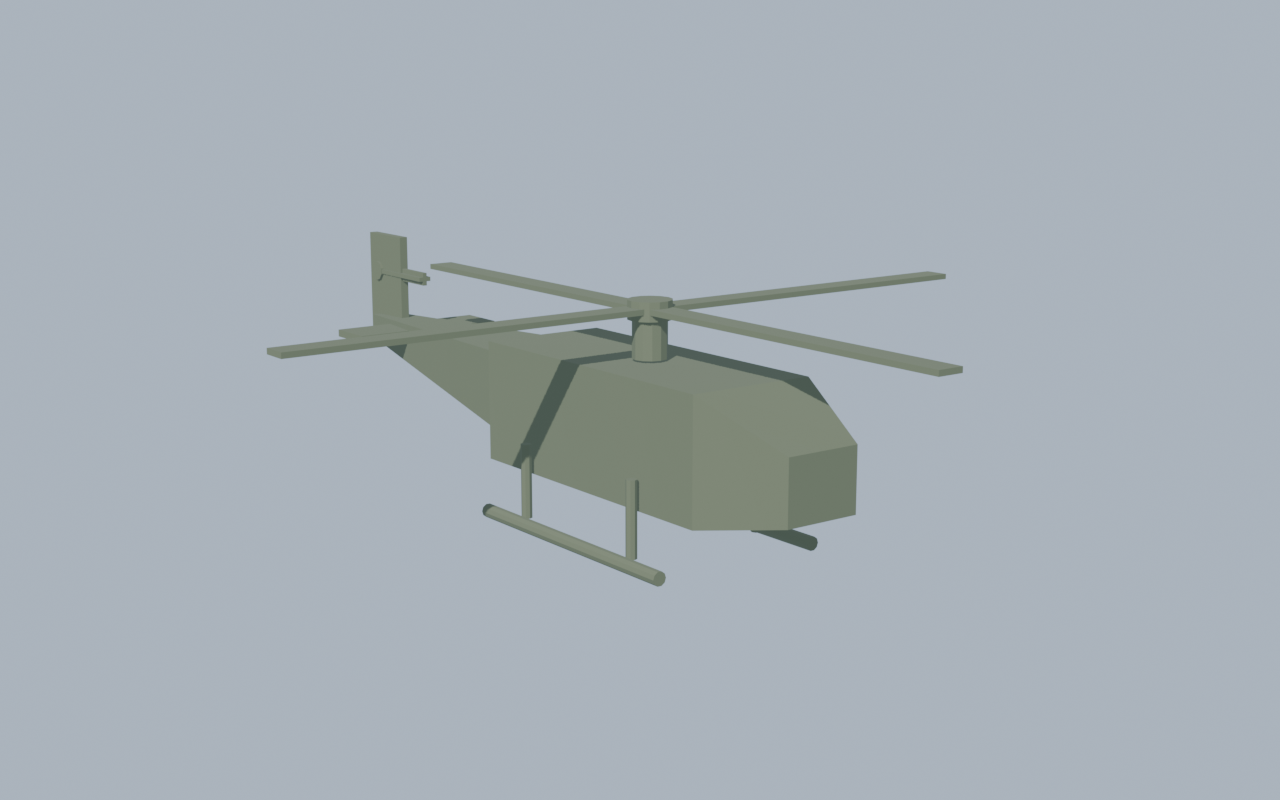
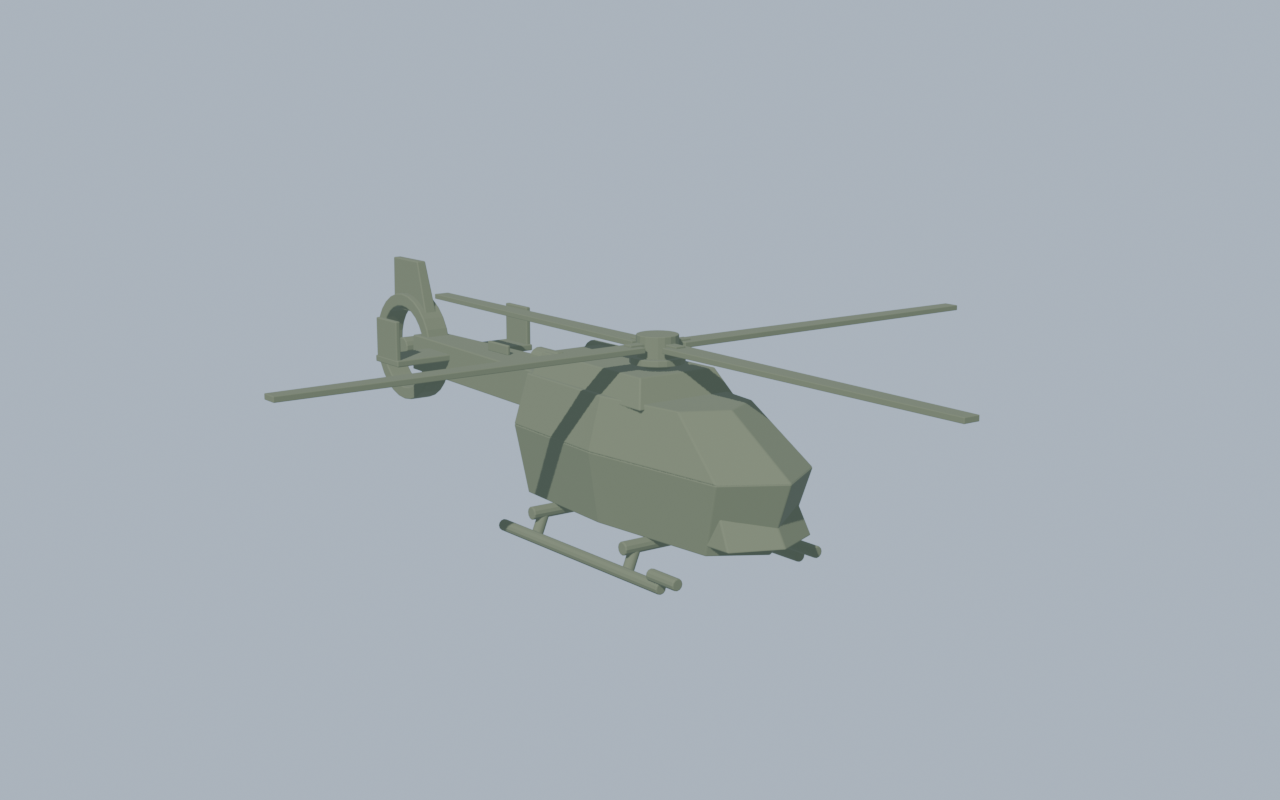
Hubschrauber: Zelle statt Kasten
Der erste Wurf war ein Quader mit Ausleger und vier Brettern. Jetzt nach
dem Vorbild, das auf jedem Klinikumsdach steht: runde Kabine aus drei
Umrissen uebereinander (unten schmal, in Fensterhoehe am breitesten, zum
Dach eingezogen), weit heruntergezogene Kanzel, Triebwerksdeck mit zwei
Auspuffstutzen, schlanker Heckausleger und der ummantelte Heckrotor im
Ringkanal - dafuer gibt es jetzt eine echte Kreisscheibe mit Loch statt
eines Kastens. Dazu Seitenleitwerk, Hoehenflosse mit Endscheiben, Kufen
auf zwei Querbuegeln, Landescheinwerfer, Antenne, Taumelscheibe und vier
verjuengte Blaetter. Kanten gefast wie beim Panzer.

Nabe und Ringkanal sitzen im Spiel dort, wo das Modell sie hat; der
Heckrotor dreht jetzt um die Querachse (vorher um die falsche) und rund
viermal so schnell wie der Hauptrotor.

-LaLaBergSonderTest: PASS panzer_weg=38m heli_stieg=25m.

Changed region(s): [[0.1875, 0.2812, 0.7812, 0.75]]

diff --git a/Tools/baue_panzer_heli.py b/Tools/baue_panzer_heli.py
@@ -340,44 +340,129 @@ def panzer():
 
 
 # ------------------------------------------------------------ Hubschrauber
-# Leichter Hubschrauber: 9,5 m ueber alles, Rotor 9,8 m.
+# Vorbild ist der Rettungshubschrauber, wie er auf jedem Klinikumsdach steht
+# (Zelle rund 10 m lang, Rotor 10 m, Hoehe 3,5 m): runde Kabine mit weit
+# heruntergezogener Kanzel, Triebwerksdeck darueber, schlanker Heckausleger
+# und der ummantelte Heckrotor im Ringkanal - die Bauform, an der man einen
+# solchen Hubschrauber auf hundert Meter erkennt.
+#
+# Der erste Versuch war ein Kasten mit Ausleger und vier Brettern; hier
+# entstehen Kabine und Ausleger aus Umrissen mit geneigten Waenden, der
+# Ringkanal aus einer echten Kreisscheibe mit Loch.
+def scheibe_mit_loch(name, r_aussen, r_innen, dicke, ort=(0, 0, 0), segmente=28):
+    """Kreisring als Koerper - fuer den Ringkanal des Heckrotors. Achse Y."""
+    ob, me = neu(name)
+    punkte, flaechen = [], []
+    for seite, y in ((0, -dicke / 2), (1, dicke / 2)):
+        for i in range(segmente):
+            w = i / segmente * 2 * math.pi
+            punkte.append((math.cos(w) * r_aussen, y, math.sin(w) * r_aussen))
+            punkte.append((math.cos(w) * r_innen, y, math.sin(w) * r_innen))
+    for i in range(segmente):
+        j = (i + 1) % segmente
+        a0, a1 = 2 * i, 2 * i + 1
+        b0, b1 = 2 * j, 2 * j + 1
+        c0, c1 = a0 + 2 * segmente, a1 + 2 * segmente
+        d0, d1 = b0 + 2 * segmente, b1 + 2 * segmente
+        flaechen.append((a0, b0, b1, a1))          # vorn
+        flaechen.append((c1, d1, d0, c0))          # hinten
+        flaechen.append((a0, c0, d0, b0))          # aussen
+        flaechen.append((b1, d1, c1, a1))          # innen
+    me.from_pydata([(p[0] + ort[0], p[1] + ort[1], p[2] + ort[2]) for p in punkte], [], flaechen)
+    me.validate()
+    me.update()
+    return ob
+
+
 def helikopter():
     leere_szene()
-    teile = [kasten("Rumpf", 4.2, 1.7, 1.55, (0, 0, 1.75))]
-    teile.append(keil("Nase", [
-        (2.1, -0.85, -0.775), (3.3, -0.5, -0.55), (3.3, -0.5, 0.25), (2.1, -0.85, 0.775),
-        (2.1, 0.85, -0.775), (3.3, 0.5, -0.55), (3.3, 0.5, 0.25), (2.1, 0.85, 0.775),
-    ], (0, 0, 1.75)))
-    teile.append(keil("Heck", [
-        (-2.1, -0.7, -0.45), (-6.4, -0.18, 0.15), (-6.4, -0.18, 0.5), (-2.1, -0.7, 0.6),
-        (-2.1, 0.7, -0.45), (-6.4, 0.18, 0.15), (-6.4, 0.18, 0.5), (-2.1, 0.7, 0.6),
-    ], (0, 0, 1.75)))
-    teile.append(kasten("Heckflosse", 0.9, 0.12, 1.5, (-6.2, 0, 2.7)))
-    teile.append(kasten("Hoehenflosse", 0.7, 2.2, 0.1, (-5.4, 0, 2.15)))
-    teile.append(zylinder("Mast", 0.22, 0.6, (0.2, 0, 2.85), achse="Z", segmente=12))
+
+    # ------------------------------------------------------------- Zelle
+    # Kabine: unten schmal, in Fensterhoehe am breitesten, zum Dach wieder
+    # eingezogen - deshalb drei Umrisse uebereinander.
+    KABINE_UNTEN = [(2.05, -0.62), (2.45, 0.0), (2.05, 0.62), (0.2, 0.78),
+                    (-1.5, 0.66), (-1.9, 0.0), (-1.5, -0.66), (0.2, -0.78)]
+    KABINE_MITTE = [(2.35, -0.72), (2.80, 0.0), (2.35, 0.72), (0.2, 0.92),
+                    (-1.6, 0.80), (-2.05, 0.0), (-1.6, -0.80), (0.2, -0.92)]
+    KABINE_OBEN = [(1.45, -0.55), (1.75, 0.0), (1.45, 0.55), (0.2, 0.74),
+                   (-1.5, 0.66), (-1.85, 0.0), (-1.5, -0.66), (0.2, -0.74)]
+    zelle = [profil("KabineUnten", KABINE_UNTEN, 0.62, KABINE_MITTE, 1.52),
+             profil("KabineOben", KABINE_MITTE, 1.52, KABINE_OBEN, 2.18)]
+    # Kanzel: die weit heruntergezogene Frontscheibe als eigene, flache
+    # Platte ueber der Kabinenspitze.
+    zelle.append(profil("Kanzel",
+                        [(2.45, -0.62), (2.72, 0.0), (2.45, 0.62), (1.6, 0.66),
+                         (1.3, 0.0), (1.6, -0.66)], 0.75,
+                        [(1.9, -0.52), (2.10, 0.0), (1.9, 0.52), (1.35, 0.56),
+                         (1.15, 0.0), (1.35, -0.56)], 1.75))
+    # Triebwerksdeck mit zwei Auspuffstutzen, dahinter der Rotormast.
+    zelle.append(profil("Triebwerksdeck",
+                        [(0.95, -0.72), (0.95, 0.72), (-1.45, 0.66), (-1.45, -0.66)], 2.12,
+                        [(0.75, -0.56), (0.75, 0.56), (-1.35, 0.52), (-1.35, -0.52)], 2.46))
     for seite in (-1, 1):
-        teile.append(zylinder("Kufe", 0.09, 3.6, (0.1, seite * 1.15, 0.42), achse="X", segmente=10))
-        for x in (1.1, -1.1):
-            teile.append(zylinder("Strebe", 0.07, 0.95, (x, seite * 0.95, 0.9), achse="Z", segmente=8))
-    rumpf_ganz = vereine("SM_Heli_Rumpf", teile)
+        zelle.append(zylinder("Auspuff", 0.14, 0.5, (-1.35, seite * 0.42, 2.34), achse="X", segmente=14))
+    zelle.append(zylinder("Mast", 0.17, 0.5, (0.35, 0, 2.42), achse="Z", segmente=16))
 
-    # Hauptrotor: Nabe und vier Blaetter, Drehpunkt im Ursprung.
-    blaetter = [zylinder("Nabe", 0.28, 0.24, (0, 0, 0), achse="Z", segmente=14)]
+    # Heckausleger: langer, sich verjuengender Koerper bis zum Ringkanal.
+    zelle.append(profil("Heckausleger",
+                        [(-1.45, -0.42), (-1.45, 0.42), (-5.15, 0.24), (-5.15, -0.24)], 1.62,
+                        [(-1.45, -0.40), (-1.45, 0.40), (-5.15, 0.22), (-5.15, -0.22)], 2.12))
+    # Ringkanal (Fenestron) mit Blaettern darin - das auffaelligste Merkmal.
+    zelle.append(scheibe_mit_loch("Ringkanal", 0.78, 0.60, 0.34, (-5.55, 0.0, 1.88)))
+    zelle.append(zylinder("Kanalnabe", 0.14, 0.36, (-5.55, 0, 1.88), achse="Y", segmente=14))
+    # Seitenleitwerk ueber dem Kanal, Hoehenflosse mit Endscheiben davor.
+    zelle.append(profil("Seitenflosse",
+                        [(-5.0, -0.09), (-5.0, 0.09), (-5.95, 0.07), (-5.95, -0.07)], 2.40,
+                        [(-5.25, -0.07), (-5.25, 0.07), (-5.95, 0.06), (-5.95, -0.06)], 3.15))
+    zelle.append(kasten("Hoehenflosse", 0.62, 2.20, 0.09, (-4.35, 0, 1.95)))
+    for seite in (-1, 1):
+        zelle.append(kasten("Endscheibe", 0.55, 0.07, 0.62, (-4.35, seite * 1.06, 2.22)))
+    # Kufen: zwei Laengsrohre auf zwei Querbuegeln.
+    for seite in (-1, 1):
+        zelle.append(zylinder("Kufe", 0.075, 3.30, (0.15, seite * 1.05, 0.26), achse="X", segmente=12))
+        zelle.append(zylinder("Kufenspitze", 0.075, 0.5, (1.85, seite * 1.05, 0.38), achse="X", segmente=12))
+    for x in (1.05, -0.85):
+        zelle.append(zylinder("Querbuegel", 0.085, 2.10, (x, 0, 0.55), achse="Y", segmente=12))
+        for seite in (-1, 1):
+            strebe = zylinder("Strebe", 0.075, 0.42, (0, 0, 0), achse="Z", segmente=10)
+            strebe.rotation_euler = (math.radians(seite * 22), 0, 0)
+            strebe.location = (x, seite * 0.92, 0.38)
+            zelle.append(strebe)
+    # Landescheinwerfer unter der Nase, Antenne auf dem Ausleger.
+    zelle.append(zylinder("Landelicht", 0.13, 0.12, (2.25, 0, 0.72), achse="Z", segmente=14))
+    zelle.append(kasten("Antenne", 0.5, 0.05, 0.14, (-3.2, 0, 2.18)))
+    rumpf_ganz = vereine("SM_Heli_Rumpf", zelle)
+    kanten_brechen(rumpf_ganz, 0.015)
+
+    # ------------------------------------------------------------- Rotor
+    # Nabe mit Taumelscheibe und vier leicht verjuengten Blaettern.
+    rotor = [zylinder("Nabe", 0.26, 0.30, (0, 0, 0), achse="Z", segmente=20),
+             zylinder("Taumelscheibe", 0.34, 0.08, (0, 0, -0.16), achse="Z", segmente=20)]
     for i in range(4):
-        blatt = kasten("Blatt", 4.9, 0.34, 0.07, (2.45, 0, 0))
+        blatt = profil("Blatt",
+                       [(0.30, -0.16), (5.05, -0.11), (5.05, 0.11), (0.30, 0.16)], -0.035,
+                       [(0.30, -0.16), (5.05, -0.11), (5.05, 0.11), (0.30, 0.16)], 0.035)
+        # Das Netz liegt schon aussen am Blattansatz, gedreht wird um den
+        # Ursprung - so wandert der Halter mit dem Blatt mit. Ein .location
+        # wuerde nicht mitgedreht und liesse alle vier an derselben Stelle.
+        halter = kasten("Blatthalter", 0.34, 0.14, 0.12, (0.28, 0, 0))
         blatt.rotation_euler = (0, 0, math.radians(90 * i))
-        blaetter.append(blatt)
-    rotor = vereine("SM_Heli_Rotor", blaetter)
+        halter.rotation_euler = (0, 0, math.radians(90 * i))
+        rotor.append(blatt)
+        rotor.append(halter)
+    rotor_ganz = vereine("SM_Heli_Rotor", rotor)
+    kanten_brechen(rotor_ganz, 0.008)
 
-    heckteile = [zylinder("Hecknabe", 0.14, 0.2, (0, 0, 0), achse="Y", segmente=10)]
-    for i in range(2):
-        blatt = kasten("Heckblatt", 1.25, 0.06, 0.18, (0.62, 0, 0))
-        blatt.rotation_euler = (math.radians(90 * i), 0, 0)
-        heckteile.append(blatt)
-    heckrotor = vereine("SM_Heli_Heckrotor", heckteile)
+    # Heckrotor im Kanal: acht kurze Blaetter, Achse quer.
+    heck = [zylinder("Hecknabe", 0.12, 0.26, (0, 0, 0), achse="Y", segmente=14)]
+    for i in range(8):
+        blatt = kasten("Heckblatt", 0.50, 0.05, 0.11, (0.30, 0, 0))
+        blatt.rotation_euler = (math.radians(45 * i), 0, 0)
+        heck.append(blatt)
+    heckrotor = vereine("SM_Heli_Heckrotor", heck)
 
     exportiere("SM_Heli_Rumpf", rumpf_ganz)
-    exportiere("SM_Heli_Rotor", rotor)
+    exportiere("SM_Heli_Rotor", rotor_ganz)
     exportiere("SM_Heli_Heckrotor", heckrotor)
 
 

diff --git a/Source/LaLaBerg/LaLaBergSonderfahrzeug.cpp b/Source/LaLaBerg/LaLaBergSonderfahrzeug.cpp
@@ -81,10 +81,14 @@ void ALaLaBergSonderfahrzeug::BeginPlay() {
  Koerper->SetStaticMesh(Lade(bPanzer ? TEXT("SM_Panzer_Wanne") : TEXT("SM_Heli_Rumpf")));
  Koerper->SetRelativeLocation(FVector(0, 0, bPanzer ? -PANZER_HALBHOCH : -HELI_HALBHOCH));
  Dreher->SetStaticMesh(Lade(bPanzer ? TEXT("SM_Panzer_Turm") : TEXT("SM_Heli_Rotor")));
- Dreher->SetRelativeLocation(bPanzer ? FVector(0, 0, 80.0f) : FVector(20.0f, 0, 165.0f));
+ // Nabe und Ringkanal sitzen dort, wo das Modell sie hat (Blender:
+ // Rotormast bei x 0,35 / z 2,72, Heckrotor bei x -5,55 / z 1,88) - die
+ // Zelle haengt um HELI_HALBHOCH tiefer am Rumpf.
+ Dreher->SetRelativeLocation(bPanzer ? FVector(0, 0, 80.0f)
+                                     : FVector(35.0f, 0, 272.0f - HELI_HALBHOCH));
  if (!bPanzer) {
   Heckrotor->SetStaticMesh(Lade(TEXT("SM_Heli_Heckrotor")));
-  Heckrotor->SetRelativeLocation(FVector(-640.0f, 25.0f, 115.0f));
+  Heckrotor->SetRelativeLocation(FVector(-555.0f, 0.0f, 188.0f - HELI_HALBHOCH));
  } else {
   Heckrotor->SetVisibility(false);
  }
@@ -217,7 +221,9 @@ void ALaLaBergSonderfahrzeug::Tick(float Zeit) {
   const float Umdrehung = bFaehrt ? 900.0f : 90.0f;
   Drehphase = FMath::Fmod(Drehphase + Umdrehung * Zeit, 360.0f);
   if (Dreher) Dreher->SetRelativeRotation(FRotator(0, Drehphase, 0));
-  if (Heckrotor) Heckrotor->SetRelativeRotation(FRotator(Drehphase * 1.6f, 0, 0));
+  // Der Heckrotor liegt im Ringkanal und dreht sich um die Querachse; er
+  // laeuft schneller als der Hauptrotor (beim Vorbild rund viermal).
+  if (Heckrotor) Heckrotor->SetRelativeRotation(FRotator(0, 0, Drehphase * 3.8f));
  }
 
  if (Klang) {

diff --git a/Tools/rendere_modelle.py b/Tools/rendere_modelle.py
@@ -15,8 +15,8 @@ ORDNER = os.path.join(os.path.dirname(os.path.abspath(__file__)), "Modelle")
 
 # Turm und Rotor haben ihren Ursprung im Drehpunkt; im Spiel setzt sie das
 # Fahrzeug auf ihre Hoehe. Fuer das Bild dieselbe Hoehe von Hand.
-HOEHE = {"SM_Panzer_Turm": 1.90, "SM_Heli_Rotor": 3.15, "SM_Heli_Heckrotor": 2.90}
-VERSATZ_X = {"SM_Heli_Rotor": 0.2, "SM_Heli_Heckrotor": -6.4}
+HOEHE = {"SM_Panzer_Turm": 1.90, "SM_Heli_Rotor": 2.72, "SM_Heli_Heckrotor": 1.88}
+VERSATZ_X = {"SM_Heli_Rotor": 0.35, "SM_Heli_Heckrotor": -5.55}
 
 
 def szene(dateien, name, abstand, hoehe, ziel_z):
